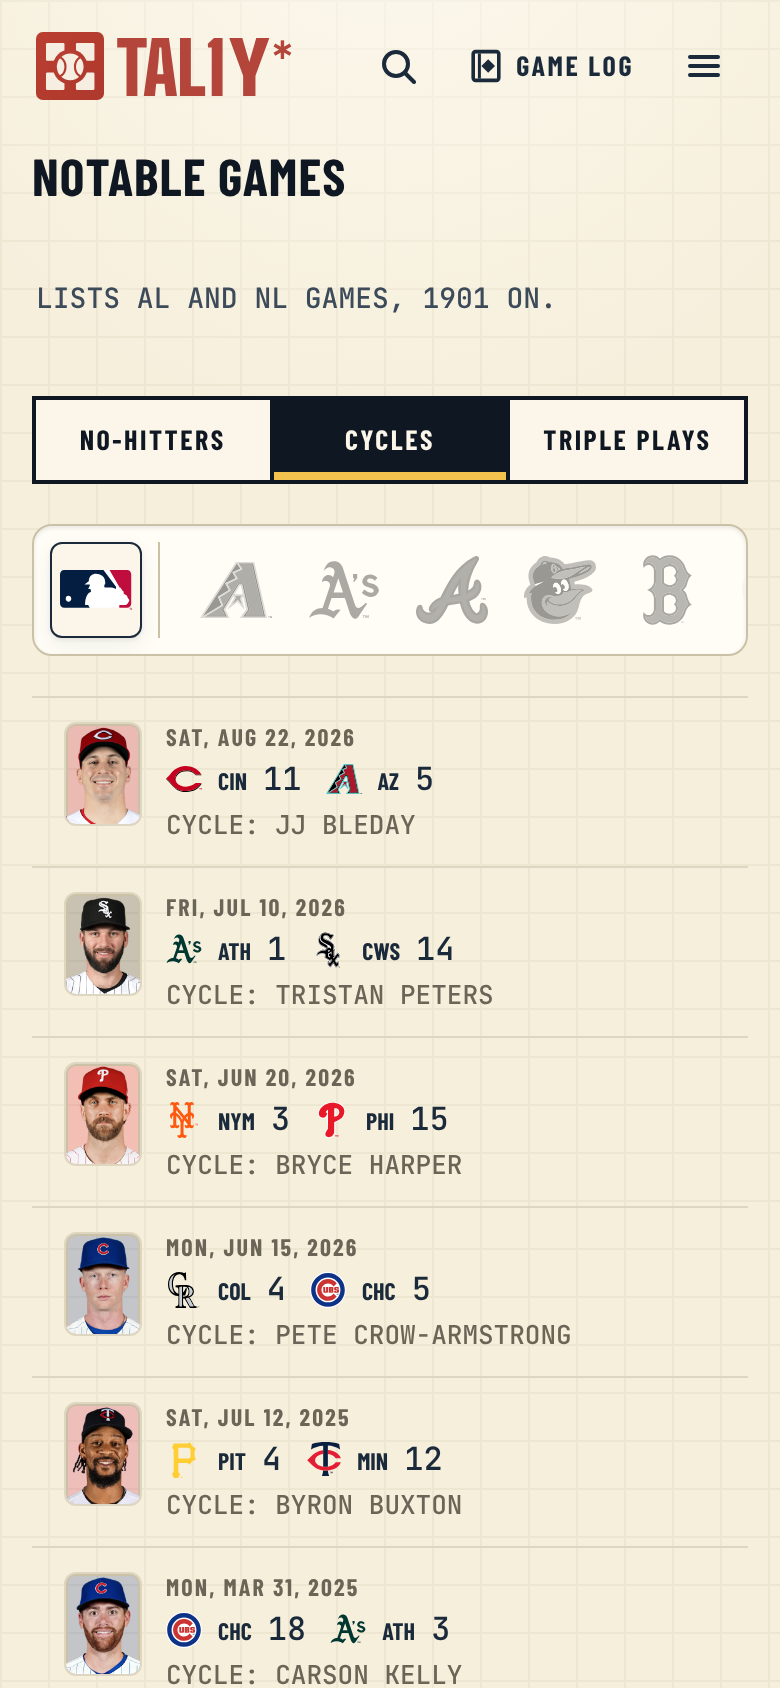
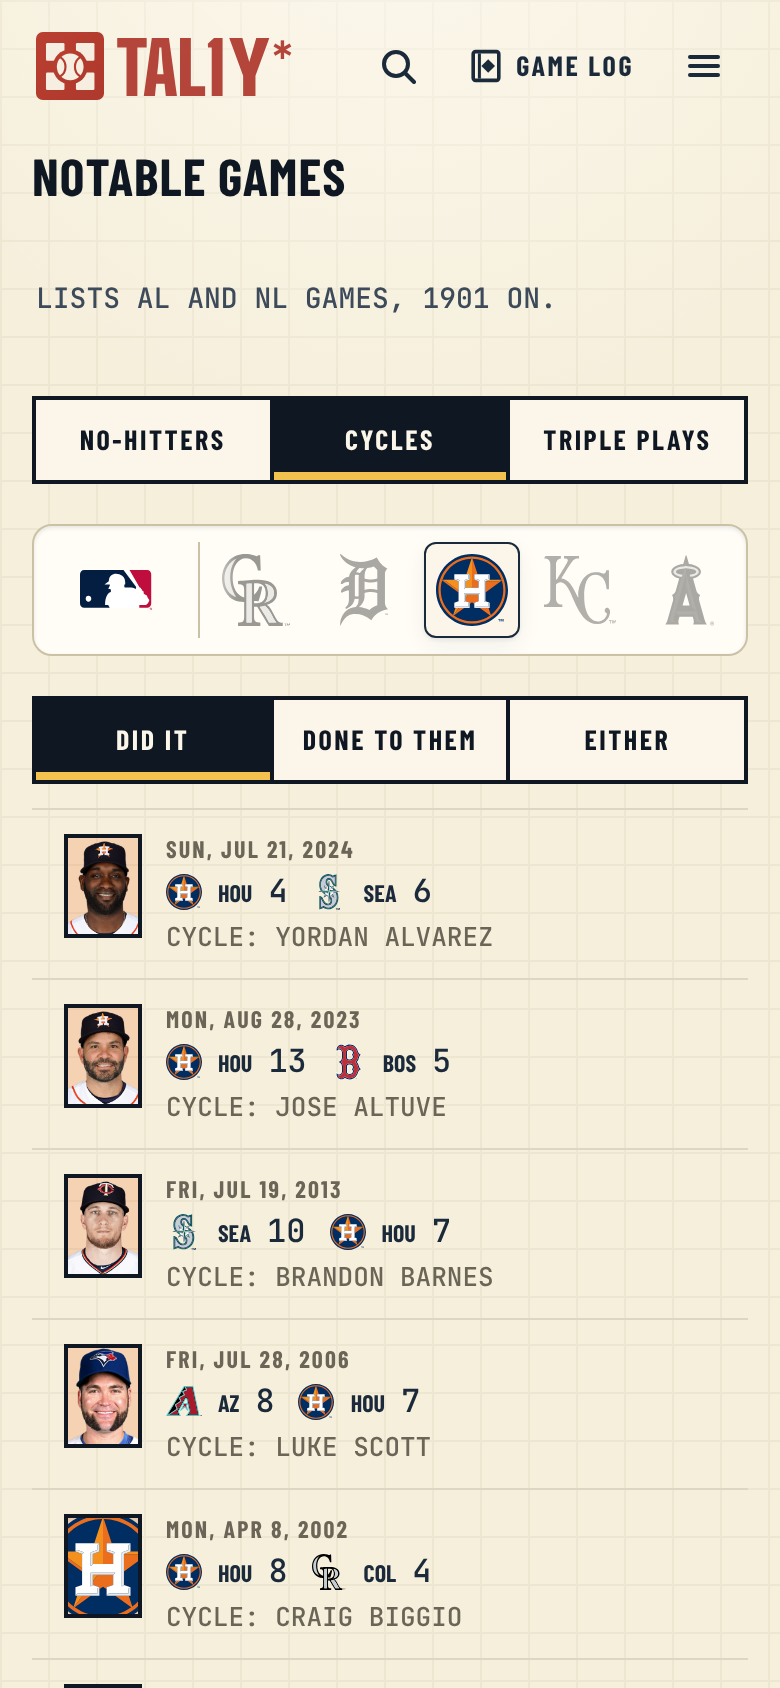
Notable games: headshots wear the report-page ink edge
Claude-Session: https://claude.ai/code/session_017MCxTxfMwLXimpF6954uzu

diff --git a/src/styles/history/notable.css b/src/styles/history/notable.css
@@ -53,7 +53,8 @@ a.notable__row:active {
   display: block;
   width: var(--shot-xs-w);
   height: var(--shot-xs-h);
-  border-radius: var(--radius-sm);
+  border: var(--bw-heavy) solid var(--border-stamped);
+  border-radius: 0;
+  background: var(--surface-inset);
   overflow: hidden;
-  box-shadow: inset 0 0 0 var(--bw-hair) var(--border-rule);
 }
